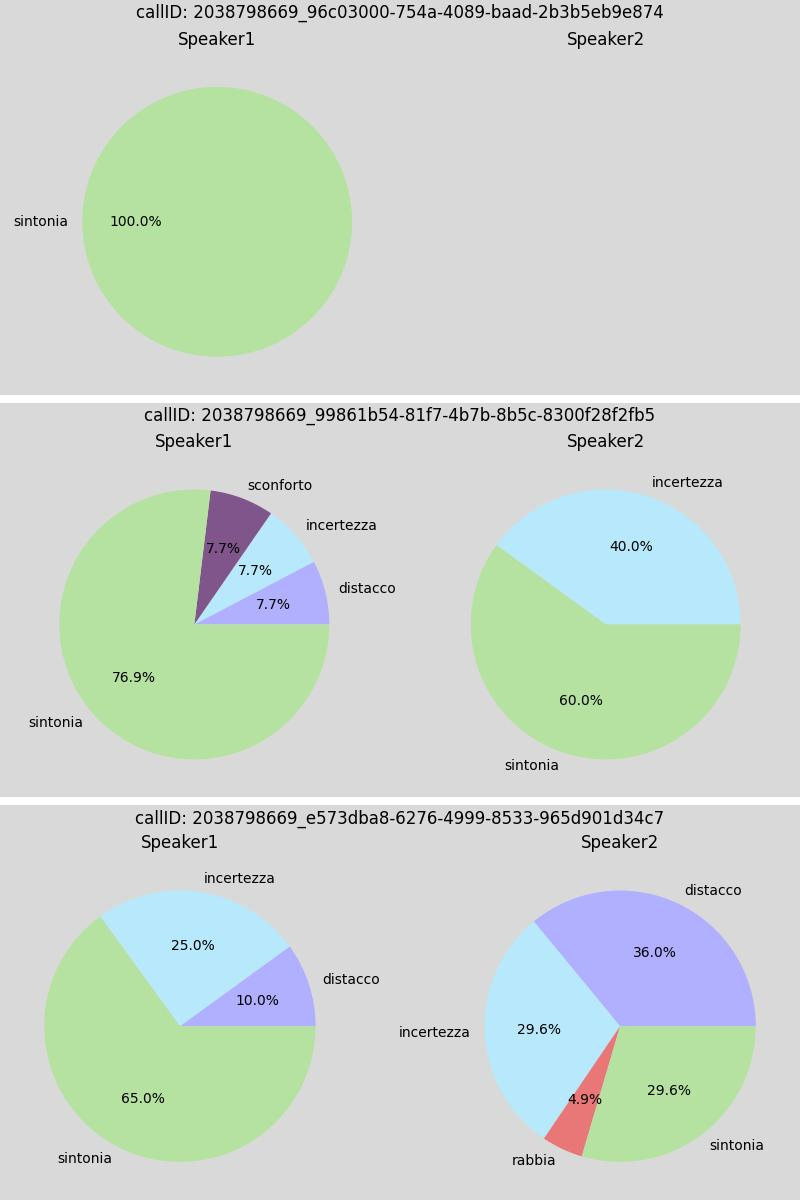
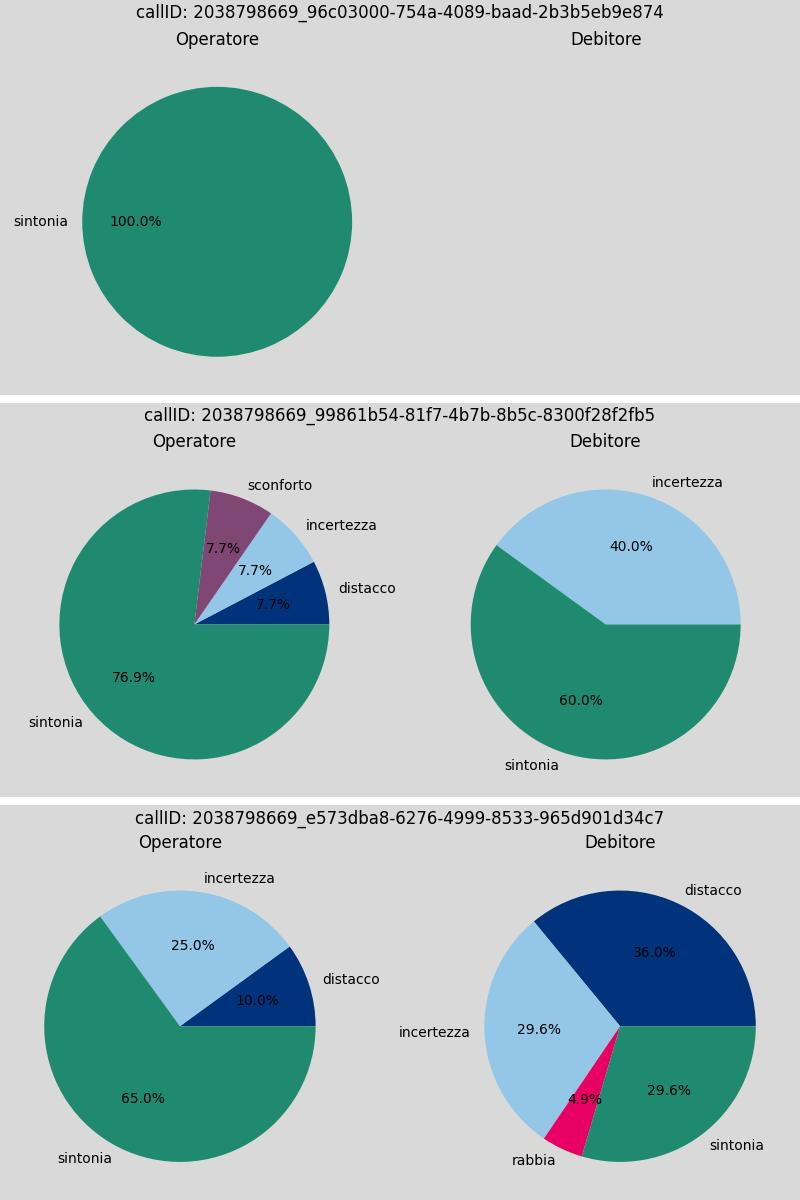
added streamlit

diff --git a/streamlit_visual.py b/streamlit_visual.py
@@ -1,0 +1,53 @@
+from visual import get_labels_value
+import matplotlib.pyplot as plt
+from classes import Pratica
+import numpy
+from visual import colors
+import streamlit as st
+
+def visualize_streamlit(pratica: Pratica):
+
+    data_list = []
+    for c in pratica.calls:
+        data_list.append(c)
+
+    fig = plt.figure(layout='constrained', figsize=(8, int(len(data_list) * 4)))
+    subfigs = fig.subfigures(len(data_list), 1, wspace=0.07)
+
+    if isinstance(subfigs, numpy.ndarray):
+        for row, subfig in enumerate(subfigs):
+            speaker1_labels, speaker1_values, speaker2_labels, speaker2_values, call_id = get_labels_value(data_list,
+                                                                                                           row)
+
+            axs = subfig.subplots(1, 2)
+            subfig.suptitle(f"callID: {pratica.id_}_{call_id}")
+            subfig.set_facecolor('0.85')
+
+            axs[0].pie(speaker1_values, labels=speaker1_labels, autopct='%1.1f%%',
+                       colors=[colors[v] for v in speaker1_labels])
+            axs[0].set_title("Operatore")
+            axs[1].pie(speaker2_values, labels=speaker2_labels, autopct='%1.1f%%',
+                       colors=[colors[v] for v in speaker2_labels])
+            axs[1].set_title("Debitore")
+
+        st.pyplot(fig)
+
+    else:
+        row = 0
+        speaker1_labels, speaker1_values, speaker2_labels, speaker2_values, call_id = get_labels_value(data_list, row)
+        figure, axis = plt.subplots(1, 2)
+        figure.suptitle(f'callID: {pratica.id_}_{call_id}')
+
+        axis[0].pie(speaker1_values, labels=speaker1_labels, autopct='%1.1f%%',
+                    colors=[colors[v] for v in speaker1_labels])
+        axis[0].set_title("Speaker1")
+
+        axis[1].pie(speaker2_values, labels=speaker2_labels, autopct='%1.1f%%',
+                    colors=[colors[v] for v in speaker2_labels])
+        axis[1].set_title("Speaker2")
+        st.pyplot(fig)
+
+
+if __name__ == "__main__":
+    pratica = Pratica("pratiche/2038989515")
+    visualize_streamlit(pratica)

diff --git a/visual.py b/visual.py
@@ -50,6 +50,7 @@ colors = {
     "sconforto": "#804674"
 }
 
+
 def visualize(pratica: Pratica):
 
     data_list = []
@@ -70,10 +71,10 @@ def visualize(pratica: Pratica):
 
             axs[0].pie(speaker1_values, labels=speaker1_labels, autopct='%1.1f%%',
                        colors=[colors[v] for v in speaker1_labels])
-            axs[0].set_title("Speaker1")
+            axs[0].set_title("Operatore")
             axs[1].pie(speaker2_values, labels=speaker2_labels, autopct='%1.1f%%',
                        colors=[colors[v] for v in speaker2_labels])
-            axs[1].set_title("Speaker2")
+            axs[1].set_title("Debitore")
 
         plt.savefig(f"{pratica.id_}.jpg")
 

diff --git a/main.py b/main.py
@@ -3,7 +3,7 @@ from visual import visualize
 from pathlib import Path
 
 if __name__ == "__main__":
-    pratiche = Path("pratiche/json")
+    pratiche = Path("pratiche")
     for p in pratiche.glob("*"):
         pratica = Pratica(p)
         visualize(pratica)
